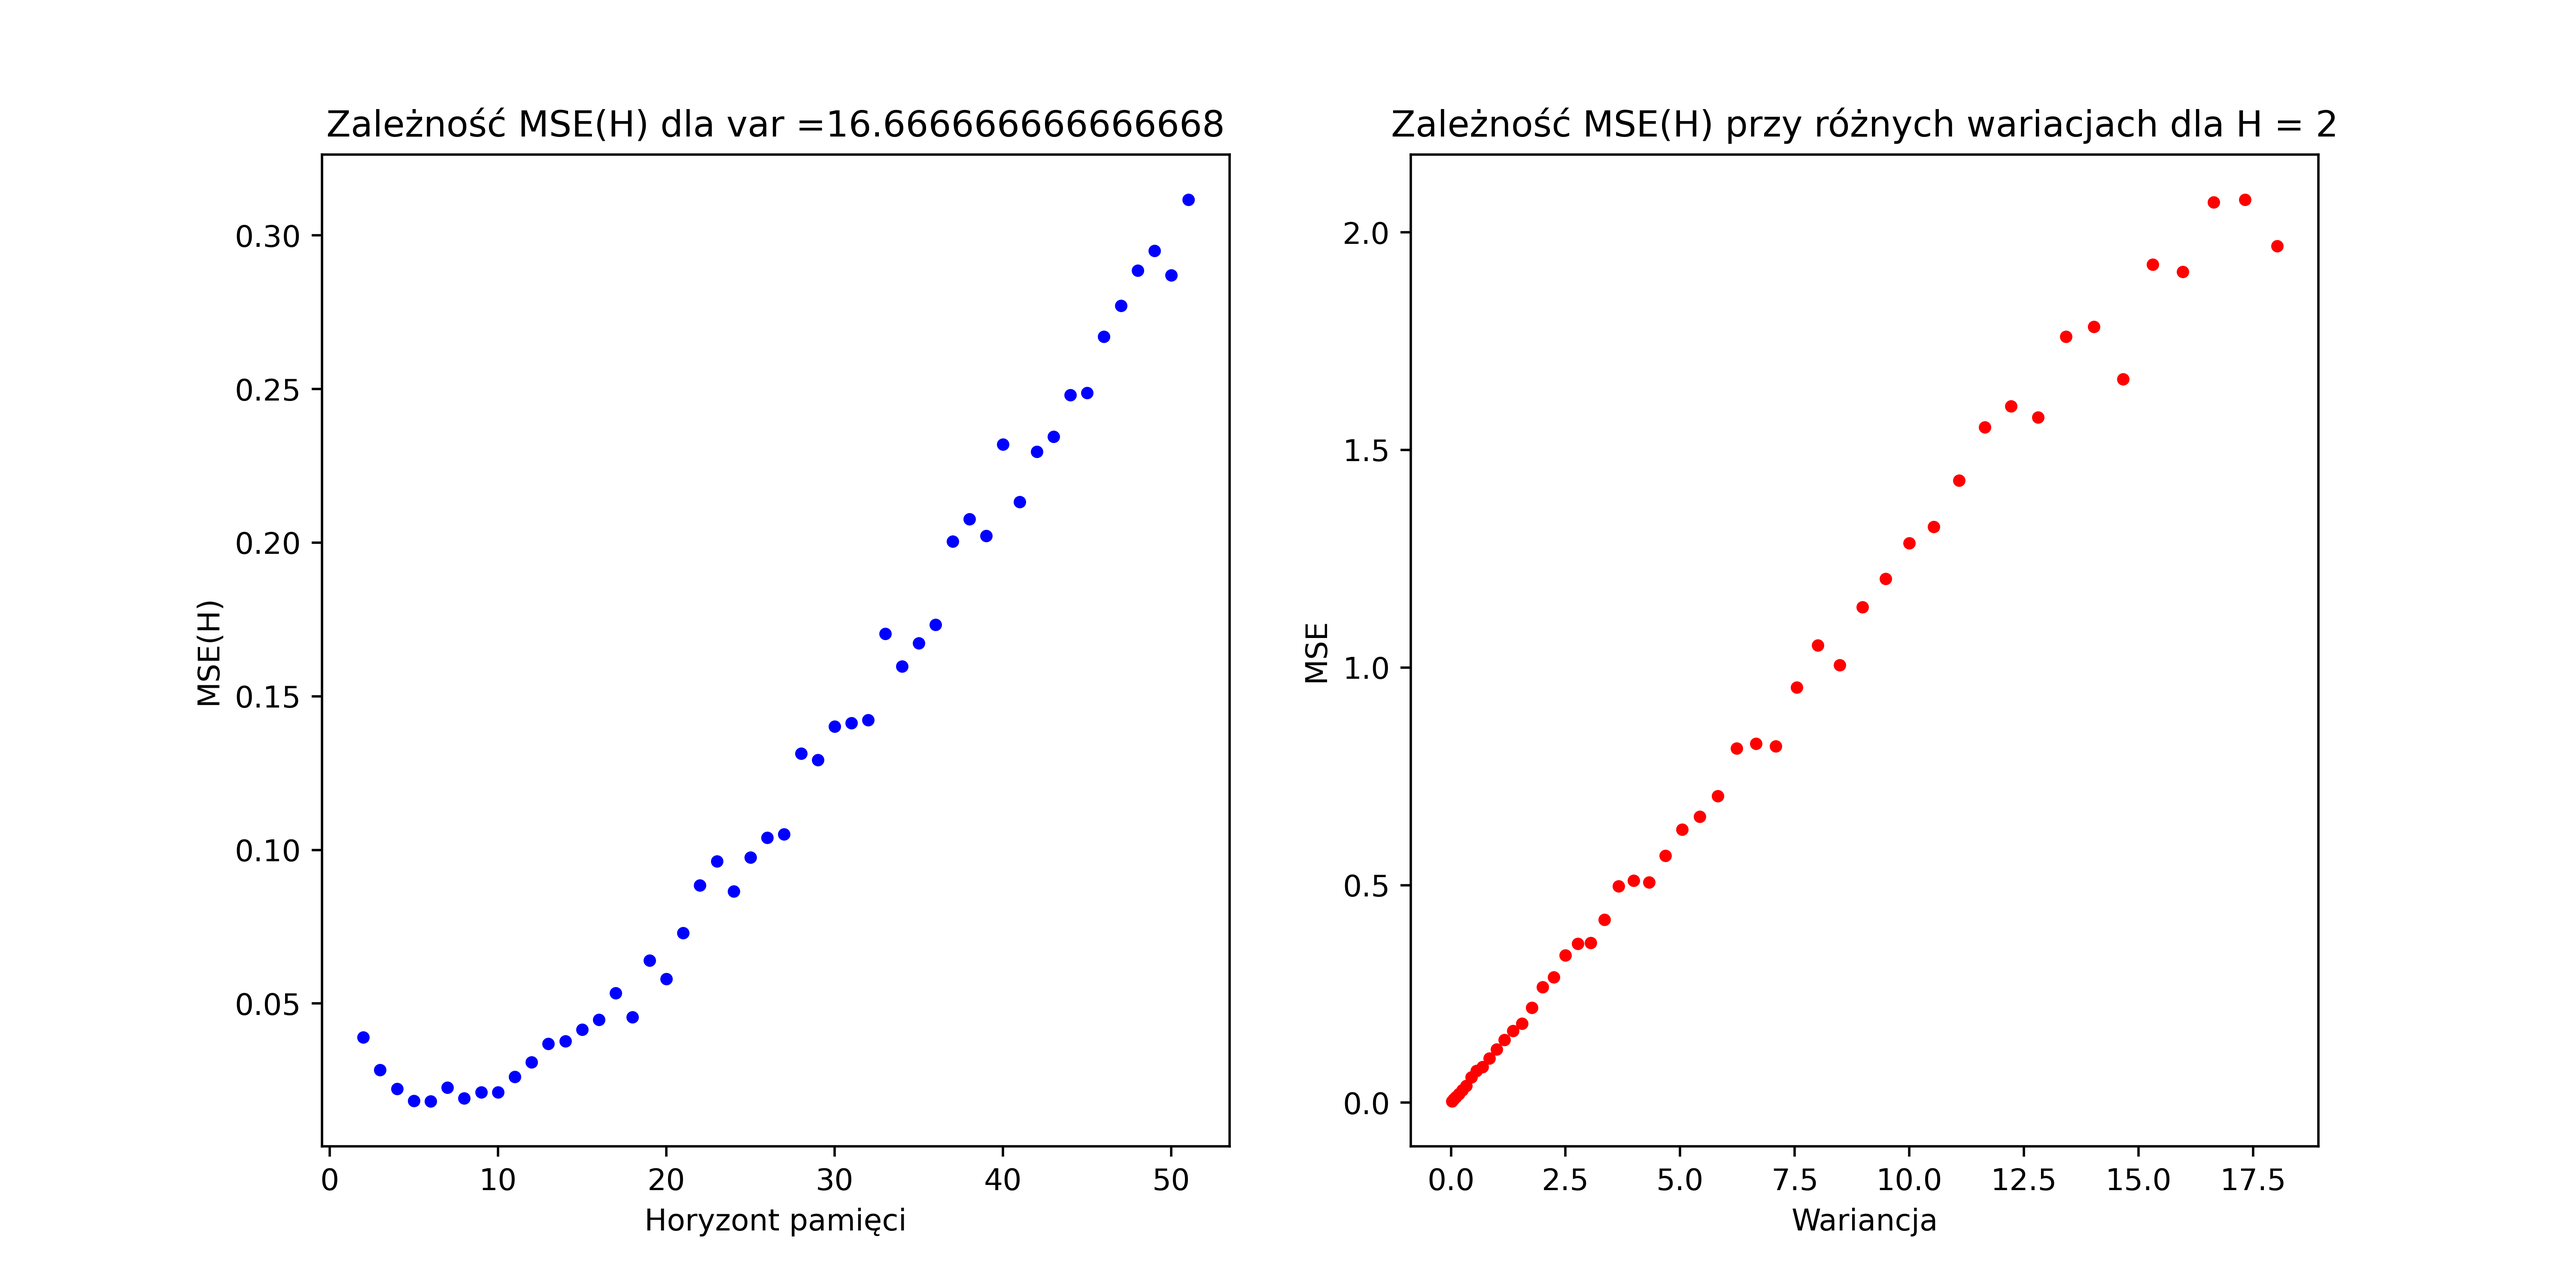
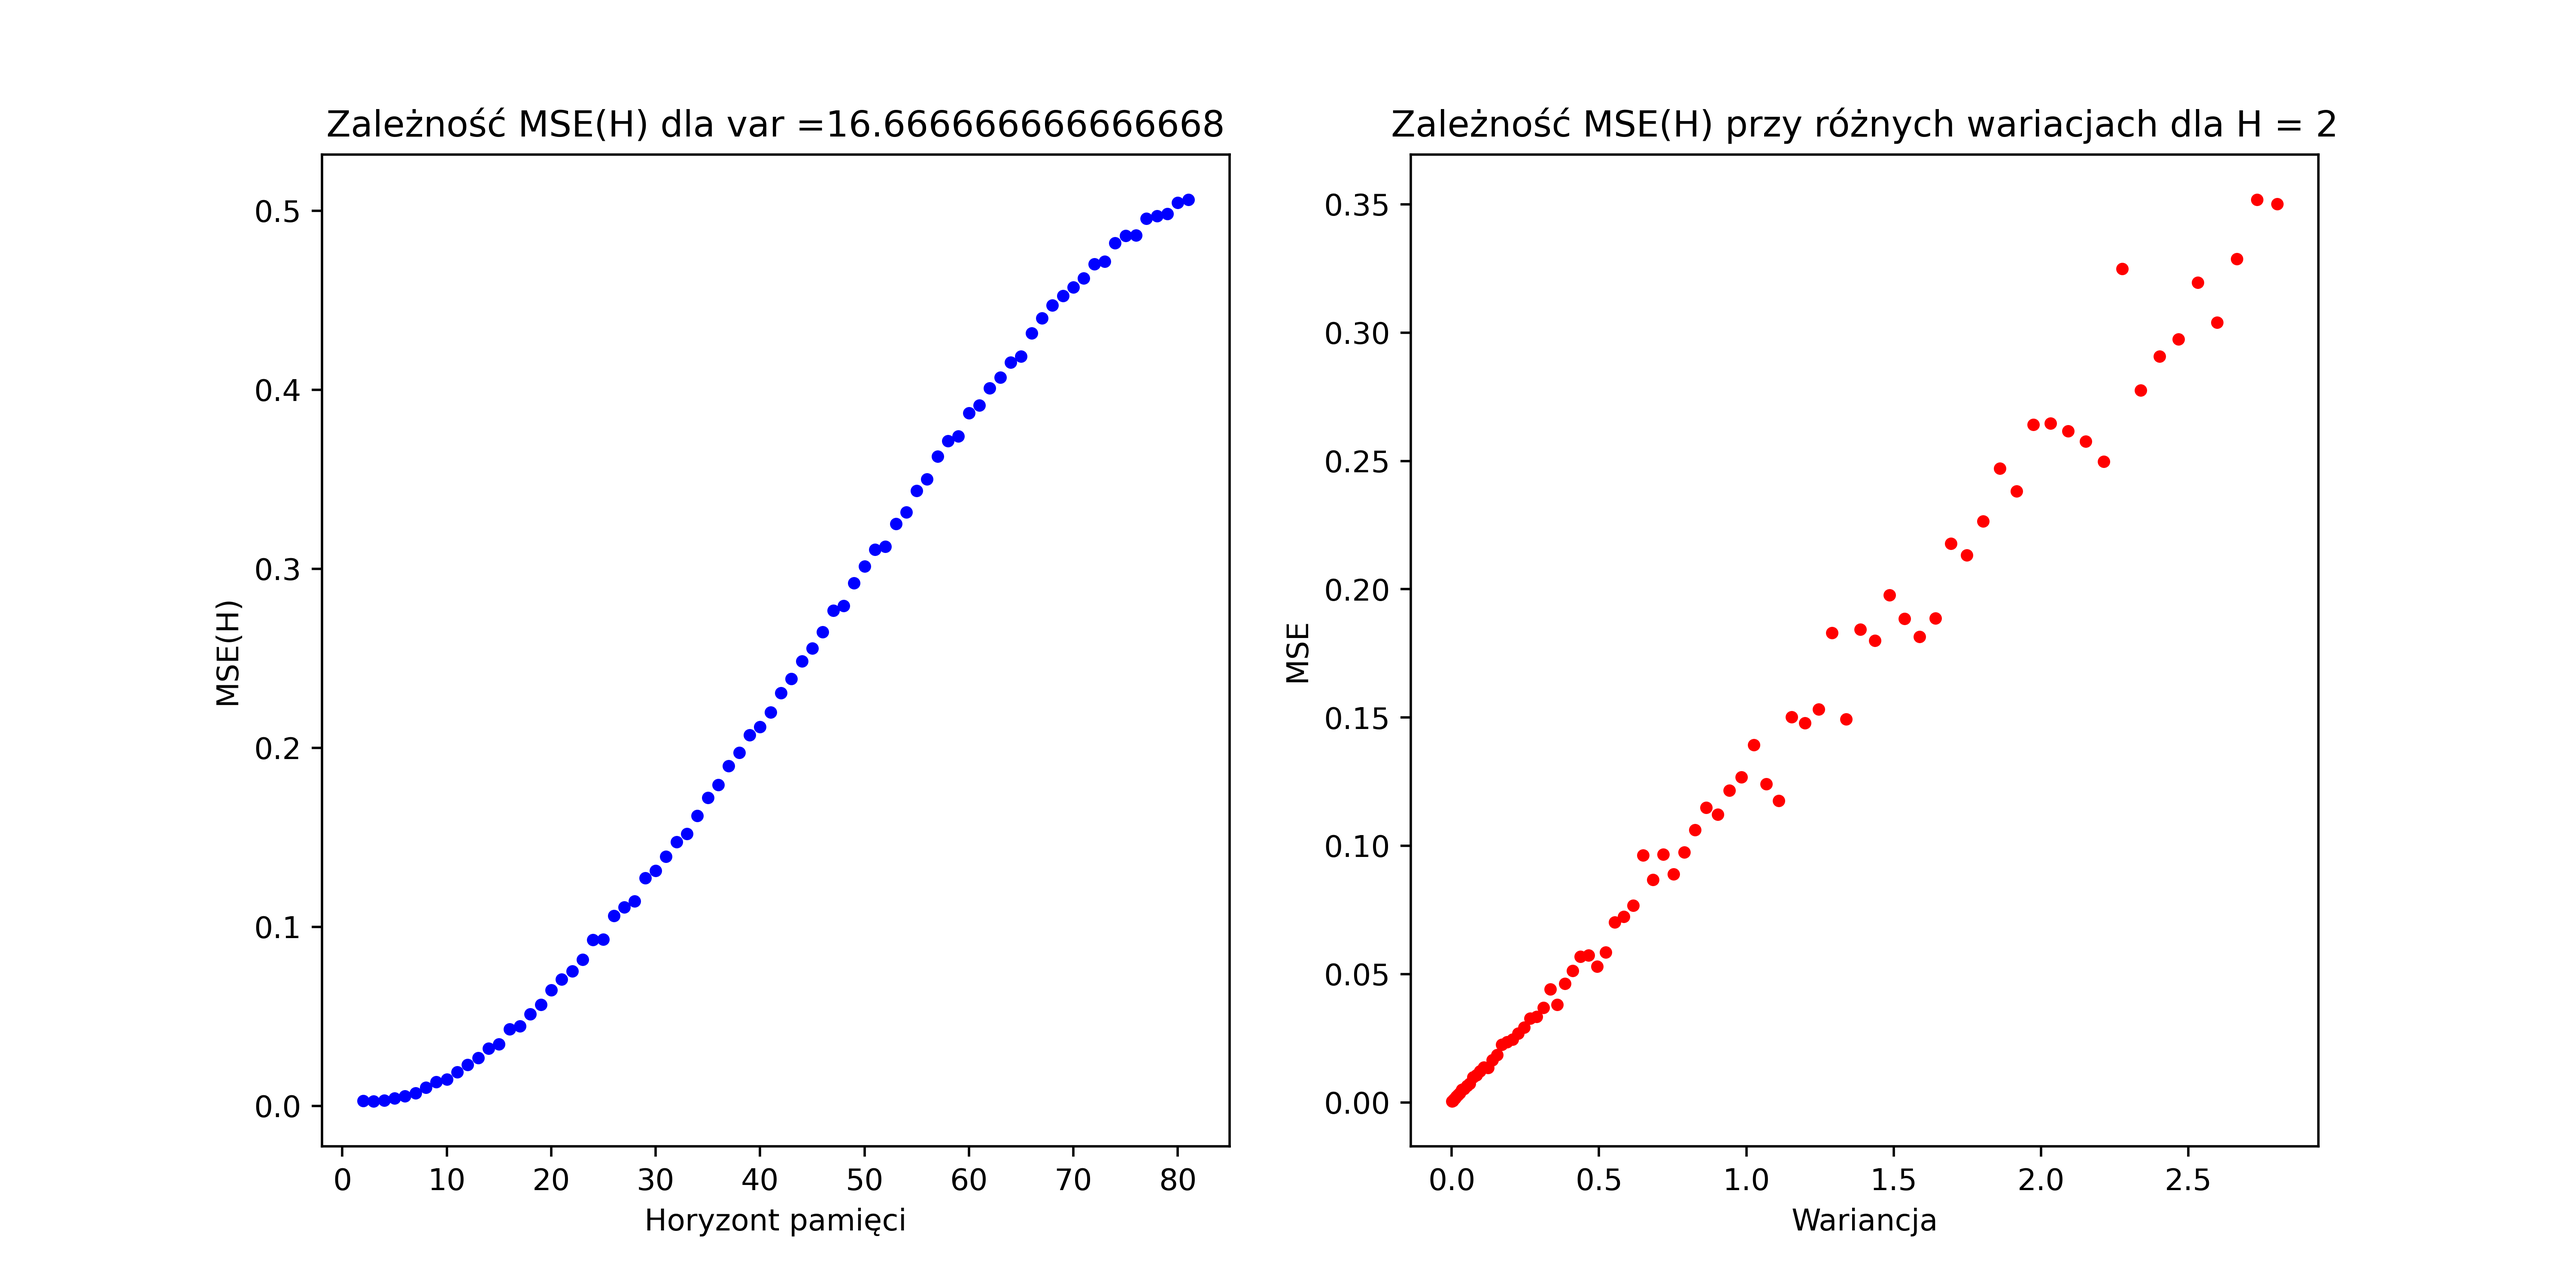
check best values of c and H

diff --git a/adaptacyjne/projekt1/wave.py b/adaptacyjne/projekt1/wave.py
@@ -7,7 +7,7 @@ from matplotlib import cm
 # number of samples, max h, expected signal 
 def calculate_all(N, max, triangular_signal):
     H = [i for i in range(2,max + 2)]
-    c = np.linspace(0.2, 5.2, max) # numbers chosen arbitrarily
+    c = np.linspace(0.05, 2.05, max) # numbers chosen arbitrarily
     var = np.zeros(len(c))
     MSE = np.zeros((len(c), len(H)))
     MSE_opt = np.zeros(len(c))
@@ -53,7 +53,7 @@ def estimate(triangular_signal, N, c, H):
     for i in range(H, N): # od H do N
         MSE += (triangular_signal_with_noise[i] - estimated[i])**2
     MSE = MSE/(N - H)
-    return triangular_signal_with_noise, estimated, MSE
+    return triangular_signal_with_noise, estimated
 
 def main():
     # triangular function parameters 
@@ -68,10 +68,14 @@ def main():
     # triangular_signal = amplitude * (2 * np.abs(2 * (t * frequency - np.floor(t * frequency + 0.5))) - 1)
     triangular_signal = ((4 * amplitude) / period) * np.abs(((t - (period * 0.25))%period) - (period * 0.5)) - amplitude
     # amount of samples (H and var)
-    max = 50
+    max = 80
+    c_value = 1
+    H_value = 4
     # calculating MSE, H and var
-    H, MSE, var, H_opt, MSE_opt = calculate_all(N, max, triangular_signal)
-    t_w_n, est, MSE_ = estimate(triangular_signal, N, c=1, H=10)
+    # H, MSE, var, H_opt, MSE_opt = calculate_all(N, max, triangular_signal)
+    t_w_n, est = estimate(triangular_signal, N, c=c_value, H=H_value)
+
+
     # creating plots
     # signal w/ and wo/ noise
     fig = plt.figure(figsize=(10, 8))
@@ -85,6 +89,7 @@ def main():
     ax.set_xlabel('Czas (s)')
     ax.set_ylabel('Amplituda')
     # ax.set_ylim(-amplitude - 0.5, amplitude + 0.5)
+
     fig_est = plt.figure(figsize=(10,8))
     ax_est = fig_est.add_subplot(111)
     ax_est.plot(t, triangular_signal, c='r', label="Fala trójkątna") 
@@ -95,6 +100,7 @@ def main():
     ax_est.set_xlabel('Czas (s)')
     ax_est.set_ylabel('Amplituda')
 
+    """
     # MSE(H) and MSE(var) plots
     fig_MSE, (ax_H, ax_var) = plt.subplots(1, 2, figsize=(12, 6))
     #  H
@@ -131,7 +137,7 @@ def main():
     colors = cm.rainbow(Z)
     rcount, ccount, _ = colors.shape
     surf = ax0.plot_surface(X, Y, Z, rcount=rcount, ccount=ccount, facecolors=colors, shade=False)
-    # surf.set_facecolor((0,0,0,0))
+    surf.set_facecolor((0,0,0,0))
     # cbar = fig.colorbar(surf, shrink=0.5, aspect=5)
 
     ax0.set_xlabel('Horyzont pamięci')
@@ -141,11 +147,14 @@ def main():
     ax0.legend(loc='center left', bbox_to_anchor=(1, 1))
 
     plt.tight_layout()
-    fig.savefig(os.path.join(os.path.dirname(__file__), "images", "Wykres_szumu.png"), dpi=500)
-    fig_est.savefig(os.path.join(os.path.dirname(__file__), "images", "Wykres_estymowany.png"), dpi=500)
-    fig_3d.savefig(os.path.join(os.path.dirname(__file__), "images", "Wykres_3d.png"), dpi=500)
-    fig_opt.savefig(os.path.join(os.path.dirname(__file__), "images", "Wykres_opt.png"), dpi=500)
-    fig_MSE.savefig(os.path.join(os.path.dirname(__file__), "images", "Wykres_MSE.png"), dpi=500)
+    """
+    fig.savefig(os.path.join(os.path.dirname(__file__), "estimate", f"Szum_c={c_value}__H={H_value}.png"), dpi=500)
+    fig_est.savefig(os.path.join(os.path.dirname(__file__), "estimate", f"Est_c={c_value}__H={H_value}.png"), dpi=500)
+    # fig.savefig(os.path.join(os.path.dirname(__file__), "images", "Wykres_szumu.png"), dpi=500)
+    # fig_est.savefig(os.path.join(os.path.dirname(__file__), "images", "Wykres_estymowany.png"), dpi=500)
+    # fig_3d.savefig(os.path.join(os.path.dirname(__file__), "images", "Wykres_3d.png"), dpi=500)
+    # fig_opt.savefig(os.path.join(os.path.dirname(__file__), "images", "Wykres_opt.png"), dpi=500)
+    # fig_MSE.savefig(os.path.join(os.path.dirname(__file__), "images", "Wykres_MSE.png"), dpi=500)
 
     # plt.show()
 
